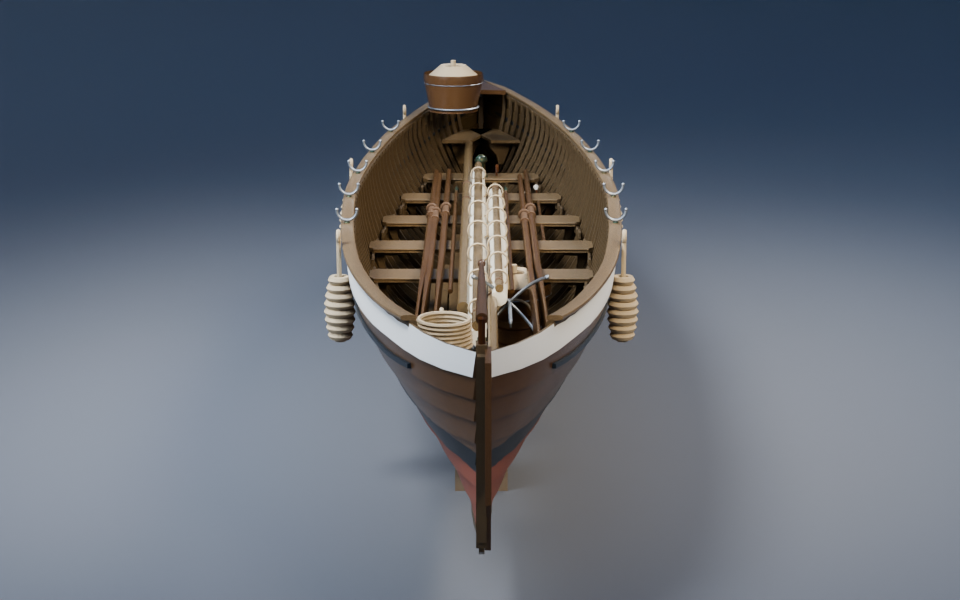
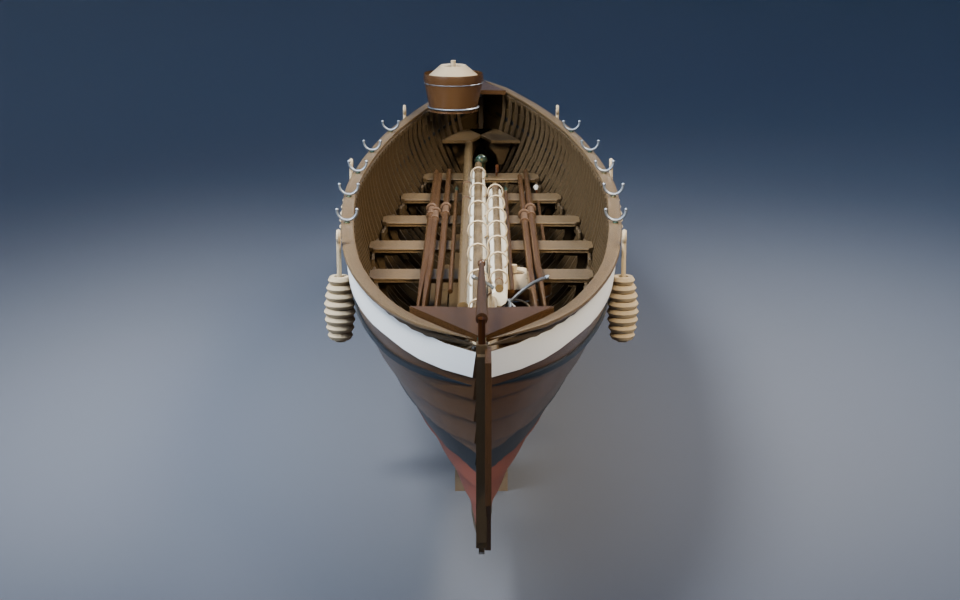
THEMISTOCLES-IV: re-audit whaler views after end joinery

Changed region(s): [[0.4062, 0.51, 0.5938, 0.6], [0.4062, 0.6, 0.5, 0.66], [0.5312, 0.6, 0.5938, 0.66]]

diff --git a/boats/renders/GEN-1/AUDIT_LEDGER.md b/boats/renders/GEN-1/AUDIT_LEDGER.md
@@ -30,17 +30,17 @@ THEMISTOCLES-III and THEMISTOCLES-IV, 18 November 2026. Each accepted exact outp
 
 | 17 | `whaler_bow_quarter.png` | double-ended bow, clinker rhythm and whaling-stowage inspection | A new 64-sample candidate was opened after full interior containment repair. The bow stem and rail, fine planking, housed centreboard condition and carried tubs/gear remain distinct and inside the boat; no former hook, harpoon, tub or board protrudes through the shell. | The diagnosis/rebuild fixed all non-exterior parity offenders before this render rather than masking them by camera or object omission. | The large tubs and water breaker reflect practical whaling outfit volume; the elevated angle shows their placement without concealing the bow structure. Re-rendered after the aft rail/endpost joinery was corrected. | Yes |
 
-| 18 | `whaler_stern_quarter.png` | double-ended stern, rudder and whaling-stowage inspection | The 64-sample candidate was opened after the containment rebuild. Stern sheets now terminate within the fine V; transomless end, rudder/tiller, fenders, contained stowage and clinker run are readable with no exterior gear spike. | Local-support settling and shortened aft sheets correct the previously measured shell breaches. | The end-on gear volume is retained as a practical outfitting condition rather than removed for a clean but false empty-boat image. | Yes |
+| 18 | `whaler_stern_quarter.png` | double-ended stern, rudder and whaling-stowage inspection | The 64-sample candidate was opened after the containment rebuild. Stern sheets now terminate within the fine V; transomless end, rudder/tiller, fenders, contained stowage and clinker run are readable with no exterior gear spike. | Local-support settling and shortened aft sheets correct the previously measured shell breaches. | The end-on gear volume is retained as a practical outfitting condition rather than removed for a clean but false empty-boat image. Re-rendered after the double-ended aft rail and closing-knee correction. | Yes |
 
-| 19 | `whaler_bow_on.png` | true-centreline double-ended bow symmetry check | A full 64-sample centreline candidate was opened after the containment repair. Stem, band, rail termini, keel and outboard fenders remain symmetric; service gear is deliberately visible but wholly inboard, and no fine-end penetration or studio horizon appears. | No new geometry fault found. | Practical line tubs and water breaker intentionally make the service outfit asymmetric; removing them would make a false empty boat. | Yes |
+| 19 | `whaler_bow_on.png` | true-centreline double-ended bow symmetry check | A full 64-sample centreline candidate was opened after the containment repair. Stem, band, rail termini, keel and outboard fenders remain symmetric; service gear is deliberately visible but wholly inboard, and no fine-end penetration or studio horizon appears. | No new geometry fault found. Re-rendered after the double-ended aft rail and closing-knee correction. | Practical line tubs and water breaker intentionally make the service outfit asymmetric; removing them would make a false empty boat. | Yes |
 
-| 20 | `whaler_stern_on.png` | true-centreline stern symmetry, rudder and tiller check | A full 64-sample centreline stern candidate was opened. Double-ended closure, centreline keel/rudder/tiller, rail ends and fenders are intact; harpoons and tubs remain contained despite deliberate service-state asymmetry. | No new defect found after the audited local-support repair. | This view preserves real loose outfit rather than moving gear to manufacture visual symmetry. | Yes |
+| 20 | `whaler_stern_on.png` | true-centreline stern symmetry, rudder and tiller check | A full 64-sample centreline stern candidate was opened. Double-ended closure, centreline keel/rudder/tiller, rail ends and fenders are intact; harpoons and tubs remain contained despite deliberate service-state asymmetry. | No new defect found after the audited local-support repair. Re-rendered after the double-ended aft rail and closing-knee correction. | This view preserves real loose outfit rather than moving gear to manufacture visual symmetry. | Yes |
 
-| 21 | `whaler_top.png` | plan of five thwarts, single-banked oars, rig and whaling outfit | A 64-sample plan candidate was opened. The housed centreboard/case, five thwarts, alternating five-oar plan, rig, harpoons, tubs and bow/stern sheets are all separate, contained components; no duplicated floor, longitudinal cockpit slot or exterior leak remains. | No new defect found after direct plan inspection. | Service gear obscures some sole area by design; construction and interior views separately expose structural support. | Yes |
+| 21 | `whaler_top.png` | plan of five thwarts, single-banked oars, rig and whaling outfit | A 64-sample plan candidate was opened. The housed centreboard/case, five thwarts, alternating five-oar plan, rig, harpoons, tubs and bow/stern sheets are all separate, contained components; no duplicated floor, longitudinal cockpit slot or exterior leak remains. | No new defect found after direct plan inspection. | Service gear obscures some sole area by design; construction and interior views separately expose structural support. Re-rendered after the double-ended aft rail and closing-knee correction. | Yes |
 
-| 22 | `whaler_underside.png` | complete double-ended clinker underbody, keel and rudder | A full 64-sample underside was opened after housed-centreboard and keelson-cap repairs. Continuous lap lands, keel, both fine ends, rudder and fenders read without the former pale centreboard tip or any interior gear penetration. | Housed centreboard was raised physically into the case and fine-end caps were tapered; no camera or hide-list workaround was used. | Technical lighting keeps the long double-ended bilge and lap sequence legible. | Yes |
+| 22 | `whaler_underside.png` | complete double-ended clinker underbody, keel and rudder | A full 64-sample underside was opened after housed-centreboard and keelson-cap repairs. Continuous lap lands, keel, both fine ends, rudder and fenders read without the former pale centreboard tip or any interior gear penetration. | Housed centreboard was raised physically into the case and fine-end caps were tapered; no camera or hide-list workaround was used. | Technical lighting keeps the long double-ended bilge and lap sequence legible. Re-rendered after double-ended rail/endpost closure correction. | Yes |
 
-| 23 | `whaler_interior.png` | complete timber interior, five thwarts and whaling-service stowage | A full 64-sample interior was opened. Framing, bottom boards, centreboard case, thwarts, alternating oars, stowed rig, harpoons, tubs and loose gear are all visibly within the shell; the prior exposure diagnostics are clean after local settling. | Rebuilt after relocating the protruding hooks and loose gear to actual local supports. | The service condition is necessarily denser than the rowing cutter, but shows the distinctive whaling fittings rather than suppressing them. | Yes |
+| 23 | `whaler_interior.png` | complete timber interior, five thwarts and whaling-service stowage | A full 64-sample interior was opened. Framing, bottom boards, centreboard case, thwarts, alternating oars, stowed rig, harpoons, tubs and loose gear are all visibly within the shell; the prior exposure diagnostics are clean after local settling. | Rebuilt after relocating the protruding hooks and loose gear to actual local supports. | The service condition is necessarily denser than the rowing cutter, but shows the distinctive whaling fittings rather than suppressing them. Re-rendered after double-ended rail/endpost closure correction. | Yes |
 
 | 24 | `whaler_construction_construction.png` | disclosed double-ended skeletal construction | Construction review exposed the non-transom gunwale run ending at xi=0.94, visibly short of the aft post, and no explicit aft closing knee. The new 64-sample image shows tapered cap/inwale/rubbing rails carried into both posts and a second breasthook tying the stern framing. | `gunwale_set` now tapers into both ends for non-transom hulls; `build2_whaler.py` adds the true aft breasthook. The whaler was rebuilt and rechecked for containment before rendering. | Shell and loose equipment are omitted only to disclose joinery; normal views remain full assemblies. | Yes |
 
@@ -65,10 +65,10 @@ THEMISTOCLES-III and THEMISTOCLES-IV, 18 November 2026. Each accepted exact outp
[1 lines of base64/hex data omitted]
 
[14 lines of base64/hex data omitted]
